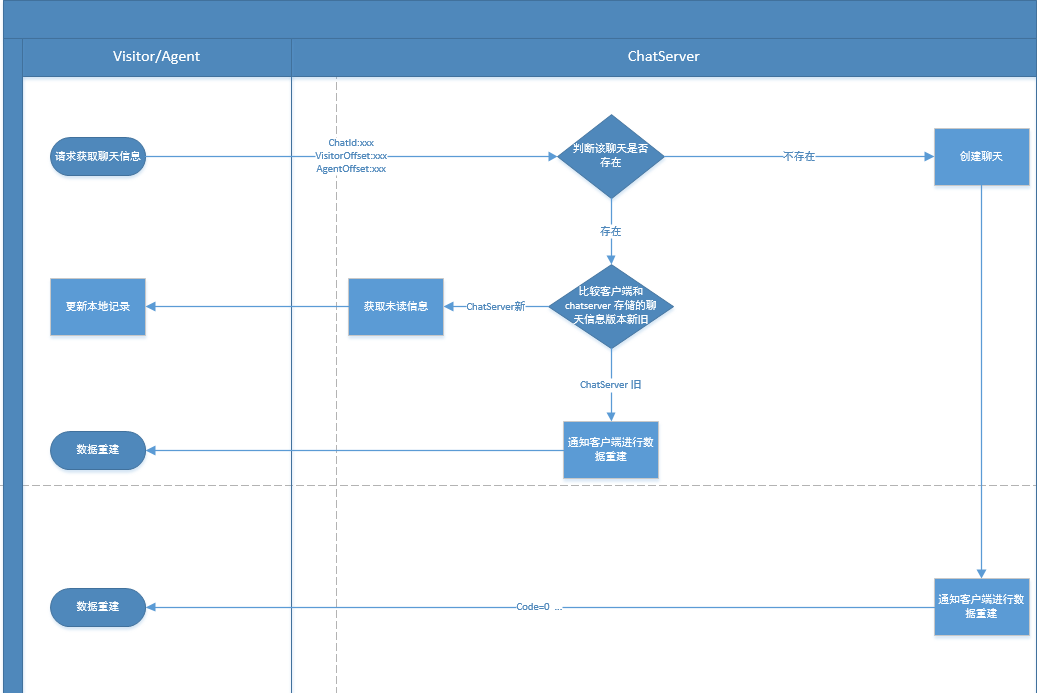
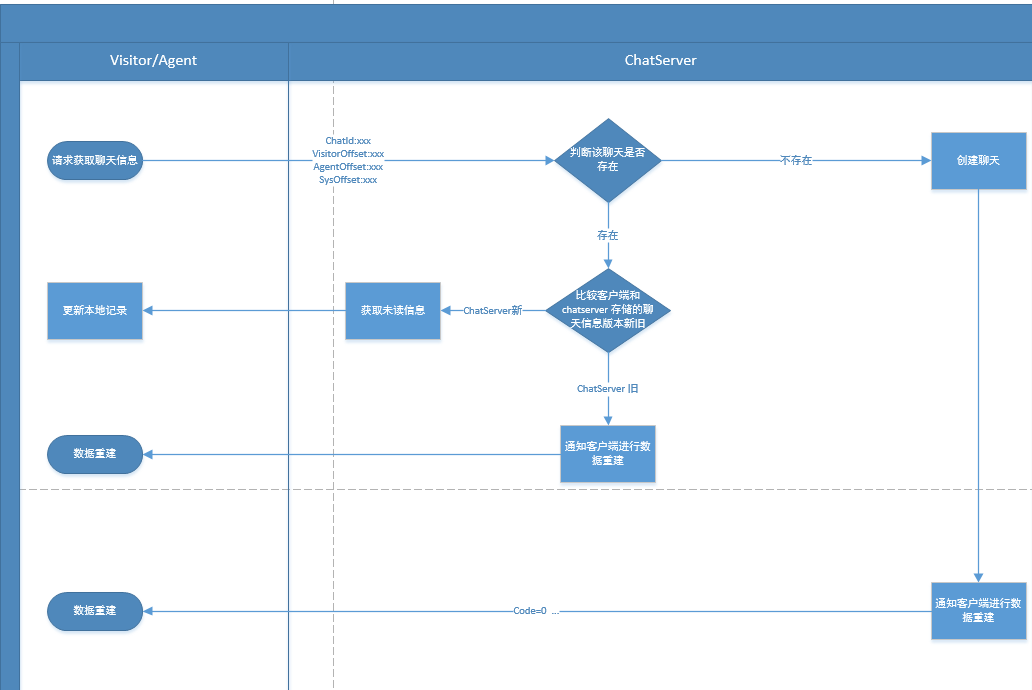
11
111

diff --git a/chat-server .md b/chat-server .md
@@ -12,10 +12,10 @@
 
 ## 总体思路
  
- 1. visitor或者agent 的聊天，在本地将会存放visitorOffset和agentOffset 分别用于标识visitor和agent 的聊天消息版本。
- 2. 向chatserver 发送或者获取新消息的时候，将visitorOffset和agentOffset做为参数发送到chatserver.
- 3. 从chatserver 获取消息的时候，chat server 接收到信息以后，将会拿参数 visitorOffset和agentOffset 比较 chat server 本地chat 中的visitorOffset和agentOffset，如果本地的offset任意一个 小于 visitor或者agent的 visitorOffset和agentOffset，将会通知visitor或者agent 调用聊天重建接口进行数据同步。
- 4. 向chatserver发送新消息的时候，如果chat server chat 不存在或者chat server 本地chat 中的visitorOffset和agentOffset，如果本地的offset任意一个 小于 visitor或者agent的 visitorOffset和agentOffset，消息返回发送失败，客户端循环发送，直到发送成功。
+ 1. visitor或者agent 的聊天，在本地将会存放visitorOffset和agentOffset,sysOffset 分别用于标识visitor和agent和系统 的聊天消息版本。
+ 2. 向chatserver 发送或者获取新消息的时候，将visitorOffset和agentOffset,sysOffset做为参数发送到chatserver.
+ 3. 从chatserver 获取消息的时候，chat server 接收到信息以后，将会拿参数 visitorOffset和agentOffset,sysOffset 比较 chat server 本地chat 中的visitorOffset，agentOffset和sysOffset，如果本地的offset任意一个 小于 visitor或者agent的 visitorOffset,agentOffset和sysOffset，将会通知visitor或者agent 调用聊天重建接口进行数据同步。
+ 4. 向chatserver发送新消息的时候，如果chat server chat 不存在或者chat server 本地chat 中的visitorOffset,agentOffset,和sysOffset，如果本地的offset任意一个 小于 visitor或者agent的 visitorOffset和agentOffset和sysOffset，消息返回发送失败，客户端循环发送，直到发送成功。
  5. 数据同步期间，发送和获取记录操作，发送和获取操作将等待重建完成后再进行。
 
 ##  场景
@@ -88,25 +88,25 @@
   ![chatserver](receive.png)
 
 visitor或者agent 向chat server 请求最新的聊天的记录的时：
-1. 如果该聊天不存在，chat server根据聊天chatId 创建该聊天，然后返回AddMessageResult{code=1,visitorOffset=-1,agentOffset=-1} 给visitor或者agent ，告知visitor或者agent ，调用聊天重建接口进行聊天重建。
-  2. 如果当前聊天存在，且chat.visitorOffset和chat.agentOffset的值不小于 visitor或者agent 本地记录的visitorOffset和agentOffset，将返回未读信息列表给visitor或者agent。
-  3. 如果当前聊天存在，且chat.visitorOffset和chat.agentOffset的值有一个小于 visitor或者agent 本地记录的visitorOffset和agentOffset时，将返回AddMessageResult{code=1,visitorOffset=chat.visitorOffset,agentOffset=chat.agentOffset} ，告知visitor或者agent 进行增量数据重建。
+1. 如果该聊天不存在，chat server根据聊天chatId 创建该聊天，然后返回AddMessageResult{code=1,visitorOffset=-1,agentOffset=-1,sysOffset=-1} 给visitor或者agent ，告知visitor或者agent ，调用聊天重建接口进行聊天重建。
+  2. 如果当前聊天存在，且chat.visitorOffset,chat.agentOffset和chat.SysOffset的值不小于 visitor或者agent 本地记录的visitorOffset和agentOffset和sysOffset，将返回未读信息列表给visitor或者agent。
+  3. 如果当前聊天存在，且chat.visitorOffset,chat.agentOffset,chat.SysOffset的值有一个小于 visitor或者agent 本地记录的visitorOffset,agentOffset和sysOffset时，将返回AddMessageResult{code=1,visitorOffset=chat.visitorOffset,agentOffset=chat.agentOffset,sysOffset=chat.sysOffset} ，告知visitor或者agent 进行增量数据重建。
 
 
 
  ```c#
-   GetMessageResult GetNewMessage(int chatId,int visitorOffset,int agentOffset,string message)
+   GetMessageResult GetNewMessage(int chatId,int visitorOffset,int agentOffset,int sysOffset,string message)
    {
     
          if(!exists(chatId)) 
          {
 
            create chat(chatId);
-           return new ReturnResult{code=1,visitorDataOffset=-1,agentDataOffset=-1};
+           return new ReturnResult{code=1,visitorDataOffset=-1,agentDataOffset=-1,sysOffset=-1};
          }
        
         if(visitorOffset>chat.visitorOffset||agentOffset>chat.agentOffset)
-        return new ReturnResult{code=1,visitorOffset=chat.visitorOffset,agentOffset=chat.agentOffset};
+        return new ReturnResult{code=1,visitorOffset=chat.visitorOffset,agentOffset=chat.agentOffset,sysOffset=chat.sysOffset};
         
         ....
    }
@@ -179,6 +179,7 @@ visitor或者agent 向chat server 请求最新的聊天的记录的时：
     public DateTime  SendTime{get;set;}
     public DateTime DataOffset{get;set;}
     public MessageType MessageType{get;set;}
+    public int Order{get;set;}
     ...
    }
  
@@ -189,21 +190,24 @@ visitor或者agent 向chat server 请求最新的聊天的记录的时：
     
     private List<Message> VisitorMessages{get;set;}
     private List<Message> AgentMessages{get;set;}
-    private List<Message> SystemMessage{get;set;}
+    private List<Message> SystemMessages{get;set;}
+    private int order{get;set;}
     public object Id{get;set;}
     public Visitor Visitor{get;set;}
     public int VisitorOffset{get;set;}
     public int AgentOffset{get;set;}
+    public int SysOffset{get;set;}
     public DateTime BeginTime{get;set;}
-
+     
 
     ...
     public Message AddVisitorMessage(Message message)
     {
   
-
+        order++;
         VisitorOffset+=1;
-        message.DataOffset=AgentOffset;
+        message.DataOffset=VisitorOffset;
+        message.Order=Order;
         VisitorMessages.Add(message);
         ...
          return message;
@@ -211,21 +215,35 @@ visitor或者agent 向chat server 请求最新的聊天的记录的时：
     }
     public Message AddAgentMessage(int agentId,Message message)
     {
-      
+            order++;
             AgentOffset+=1;
             message.DataOffset=AgentOffset;
+            message.Order=Order;
             AgentMessages.Add(message);
             ...
            
            return message;
-  
     }
+
+    public Message AddSysMessage(Message message)
+    {
+            order++;
+            SysOffset+=1;
+            message.DataOffset=SysOffset;
+            message.Order=Order;
+            AgentMessages.Add(message);
+            ...
+           
+           return message;
+    }
+
     public  SortedList<int,Message> GetAllMessage()
     {
          List<Message> totalMessages=new  List<Message>();
          totalMessages.Add(VisitorMessages);
          totalMessages.Add(AgentMessages);
-         return totalMessages.Sort(r=>r.SendTime);
+         totalMessages.Add(SystemMessages);
+         return totalMessages.Sort(r=>r.Order);
     }
     public List<Message> GetNewMessage(int visitorOffset,agentOffset)
     {
@@ -233,7 +251,8 @@ visitor或者agent 向chat server 请求最新的聊天的记录的时：
            List<Message> newMessages=new  List<Message>();
            newMessages.AddRange( VisitorMessages.Where(r => r.DataOffset > visitorOffset));
            newMessages.AddRange( AgentMessages.Where(r => r.DataOffset > AgentOffset));
-          return newMessages.Sort(rr=>r.SendTime);
+          newMessages.AddRange( SystemMessages.Where(r => r.DataOffset > SysOffset));
+          return newMessages.Sort(rr=>r.Order);
      
     }
 
@@ -296,8 +315,8 @@ visitor或者agent 向chat server 请求最新的聊天的记录的时：
      publc class Chat
      {
           public object Id{get;set;}
-          public int VisitorDataOffset{get;set;}
-          public int AgentDataOffset{get;set;}
+          public int VisitorOffset{get;set;}
+          public int AgentOffset{get;set;}
           public List<ChatMessage> Messages{get;set;}
           ...
      }
@@ -310,8 +329,9 @@ visitor或者agent 向chat server 请求最新的聊天的记录的时：
   Chat
   {
     var Id;
-    var  VisitorDataOffset;
-    Var  AgentDataOffset;
+    var  VisitorOffset;
+    Var  AgentOffset;
+    var SysOffset;
      var Messages = [
         { Id: 'xxx', Content: 'xxx',DataOffset:'xxx',MessageType='xxx', SendTime...}
         // ...
